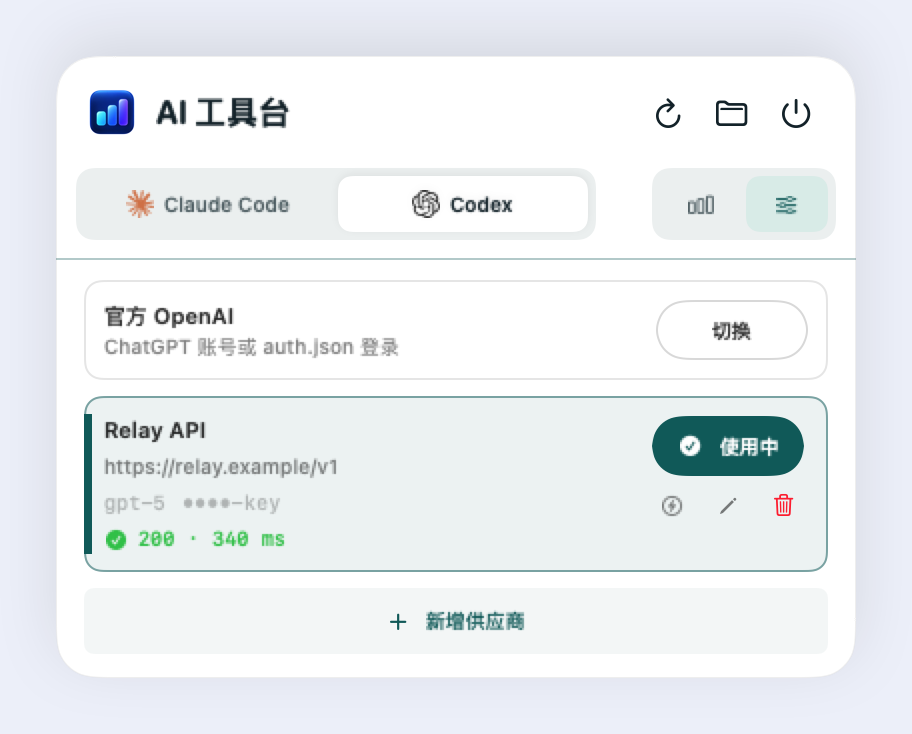
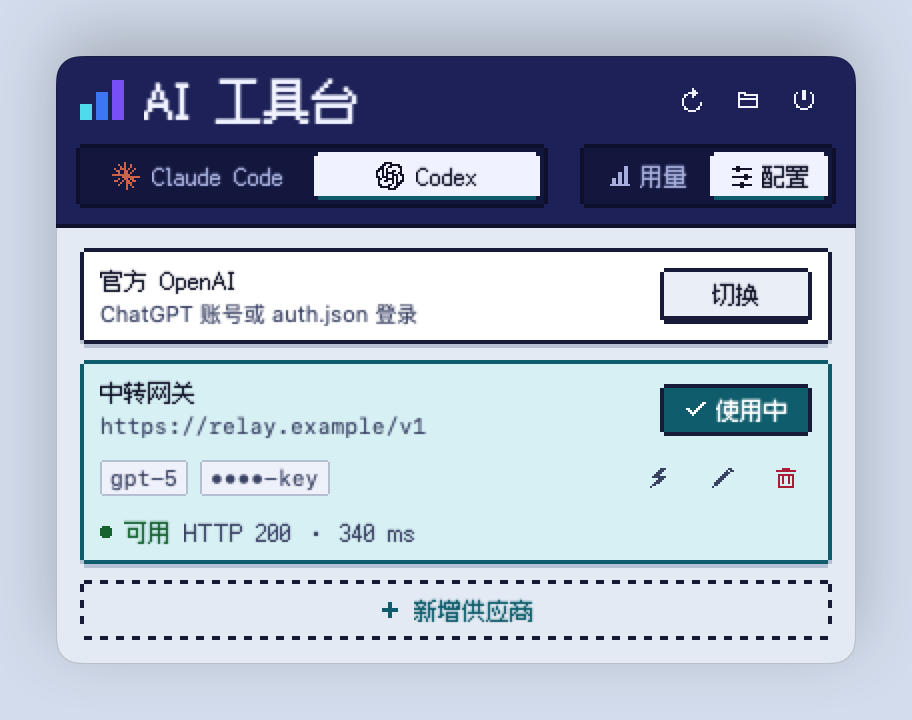
docs: README 与截图更新为像素风，补充字体授权与渲染命令
界面与设计两节改为描述像素风的网格、字体、色板、间距和动效规则，并说明
数字的中文显示约定与折叠交互。新增第三方资源一节，交代方舟像素字体的来源
与 OFL 1.1 授权。构建一节补三个渲染任务的用法（README 图、状态图集、应用
图标），供后续改版重新生成。

截图重新渲染为像素风（hero、用量与配置的浅色/深色）。

diff --git a/README.md b/README.md
@@ -5,7 +5,7 @@
 </p>
 
 macOS 菜单栏应用：把 Codex 与 Claude Code 的本地用量、趋势和供应商配置收进
-一个原生面板。数据全部来自本机日志，不查询任何远端账单或订阅额度。
+一个像素风面板。数据全部来自本机日志，不查询任何远端账单或订阅额度。
 
 Swift 6 编写，无外部 SPM 依赖，要求 macOS 13+。
 
@@ -15,7 +15,24 @@ Swift 6 编写，无外部 SPM 依赖，要求 macOS 13+。
 | --- | --- |
 | ![用量详情（浅色）](docs/images/detail-light.png) | ![供应商配置（浅色）](docs/images/config-light.png) |
 
-暗色模式同样适配（`docs/images/detail-dark.png`、`docs/images/config-dark.png`）。
+跟随系统的浅色与深色外观（`docs/images/detail-dark.png`、`docs/images/config-dark.png`）。
+
+- **用量**：今日输出、输入构成（缓存读、缓存写、未缓存）、近 7 天逐日输出、
+  累计用量和模型排行。累计和模型两张卡片可以折叠，折叠状态会记住。
+- **配置**：官方登录与已保存的供应商列成一组，「使用中」的那一项按下、
+  其余可切换；可测试端点、编辑、删除、导入当前生效的配置。删除供应商和
+  切回 Claude Code 官方登录前会先确认。
+
+## 设计
+
+- 网格：1 个像素 = 1 pt，边框 2 pt，阶梯切角，硬投影，在 1x 与 Retina 屏上都不发虚。
+- 字体：标题、标签和数字用方舟像素字体（Ark Pixel 12px，简体中文）；带句号的
+  说明文字用系统字体，保证长文本可读。
+- 色板取自应用图标（午夜蓝、青、蓝、紫），浅色和深色各一套，正文对比度达到
+  WCAG AA；系统开启「增强对比度」时文字和边框会自动加深。
+- 动效只有步进式的加载提示；系统开启「减少动态效果」时改为静止的沙漏和方块。
+- 数字按中文习惯显示：1 万以下为完整数字，以上用「万」「亿」并保留三位有效
+  数字；悬停可看到精确值。
 
 ## 构建与测试
 
@@ -24,7 +41,15 @@ swift build
 swift test
 ```
 
-包产物为可执行 target（`AIToolbox`），界面资源随包打包。
+包产物为可执行 target（`AIToolbox`），界面资源（像素字体及其授权文件）随包打包。
+
+可选的渲染任务（只用示例数据）：
+
+```bash
+USAGE_RENDER_DOCS=1 swift test --filter DocumentationRenderTests/testRenderDocumentation   # 更新 docs/images
+USAGE_RENDER_GALLERY=/tmp/gallery swift test --filter DocumentationRenderTests/testRenderGallery  # 全部页面与状态
+USAGE_RENDER_ICON=1 swift test --filter DocumentationRenderTests/testRenderAppIcon         # 重新生成应用图标
+```
 
 ## 打包与安装
 
@@ -33,7 +58,8 @@ bash scripts/package-app.sh
 ```
 
 脚本未设可执行位，用 `bash` 显式运行。产物为 `dist/AIToolbox.app`（ad-hoc
-签名）。安装到 /Applications：
+签名）。图标直接取 `Assets/AppIcon.iconset` 中逐尺寸绘制的像素图，不做缩放。
+安装到 /Applications：
 
 ```bash
 pgrep -x AIToolbox || true          # 确认未运行
@@ -47,6 +73,9 @@ open /Applications/AIToolbox.app
 启动后图标出现在菜单栏右侧（状态项区），点击打开用量与配置面板。应用为
 `LSUIElement`，不出现在 Dock；如需开机自启，在「系统设置 → 通用 → 登录项」
 里手动添加本应用。
+
+界面只有简体中文；`Info.plist` 把 zh-Hans 声明为唯一本地化，面板里的系统
+部件（文本框右键菜单、系统错误信息）也随之显示中文。
 
 ## 数据来源与隐私
 
@@ -70,3 +99,10 @@ open /Applications/AIToolbox.app
 
 产物为 ad-hoc 签名，仅供本机构建自用；拷贝到其他 Mac 会被 Gatekeeper
 拦截。对外分发需要 Developer ID 签名加公证后再发布。
+
+## 第三方资源
+
+像素字体为 [方舟像素字体（Ark Pixel Font）](https://github.com/TakWolf/ark-pixel-font)
+12px 比例宽度简体中文版，© TakWolf，依 SIL Open Font License 1.1 授权，
+未经修改随应用分发；授权全文见
+`Sources/AIToolbox/Resources/ArkPixel-OFL.txt`。
